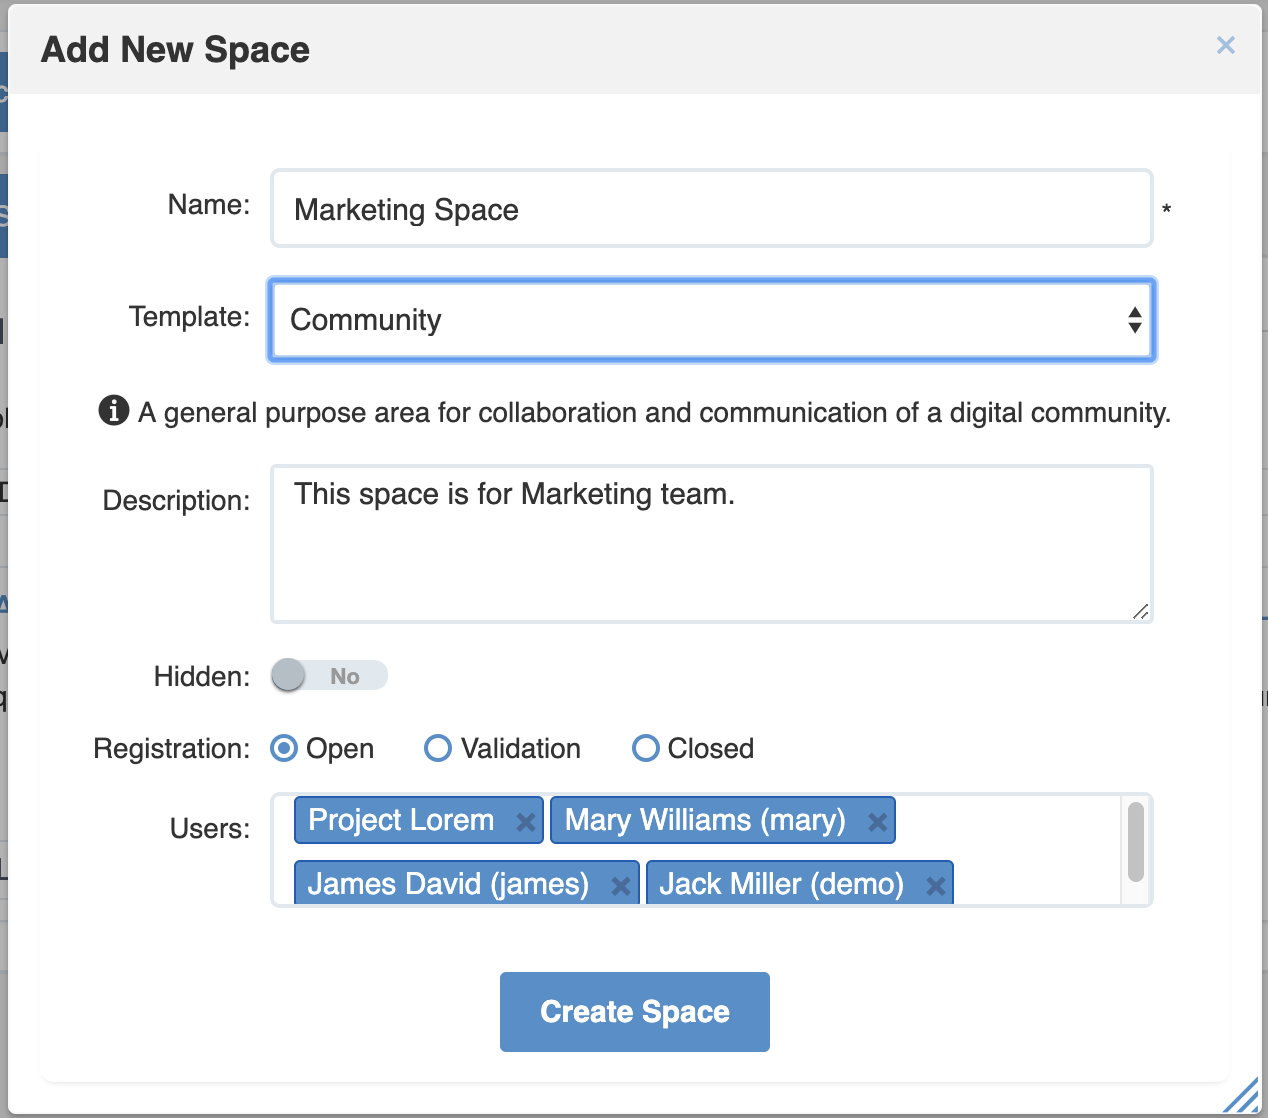
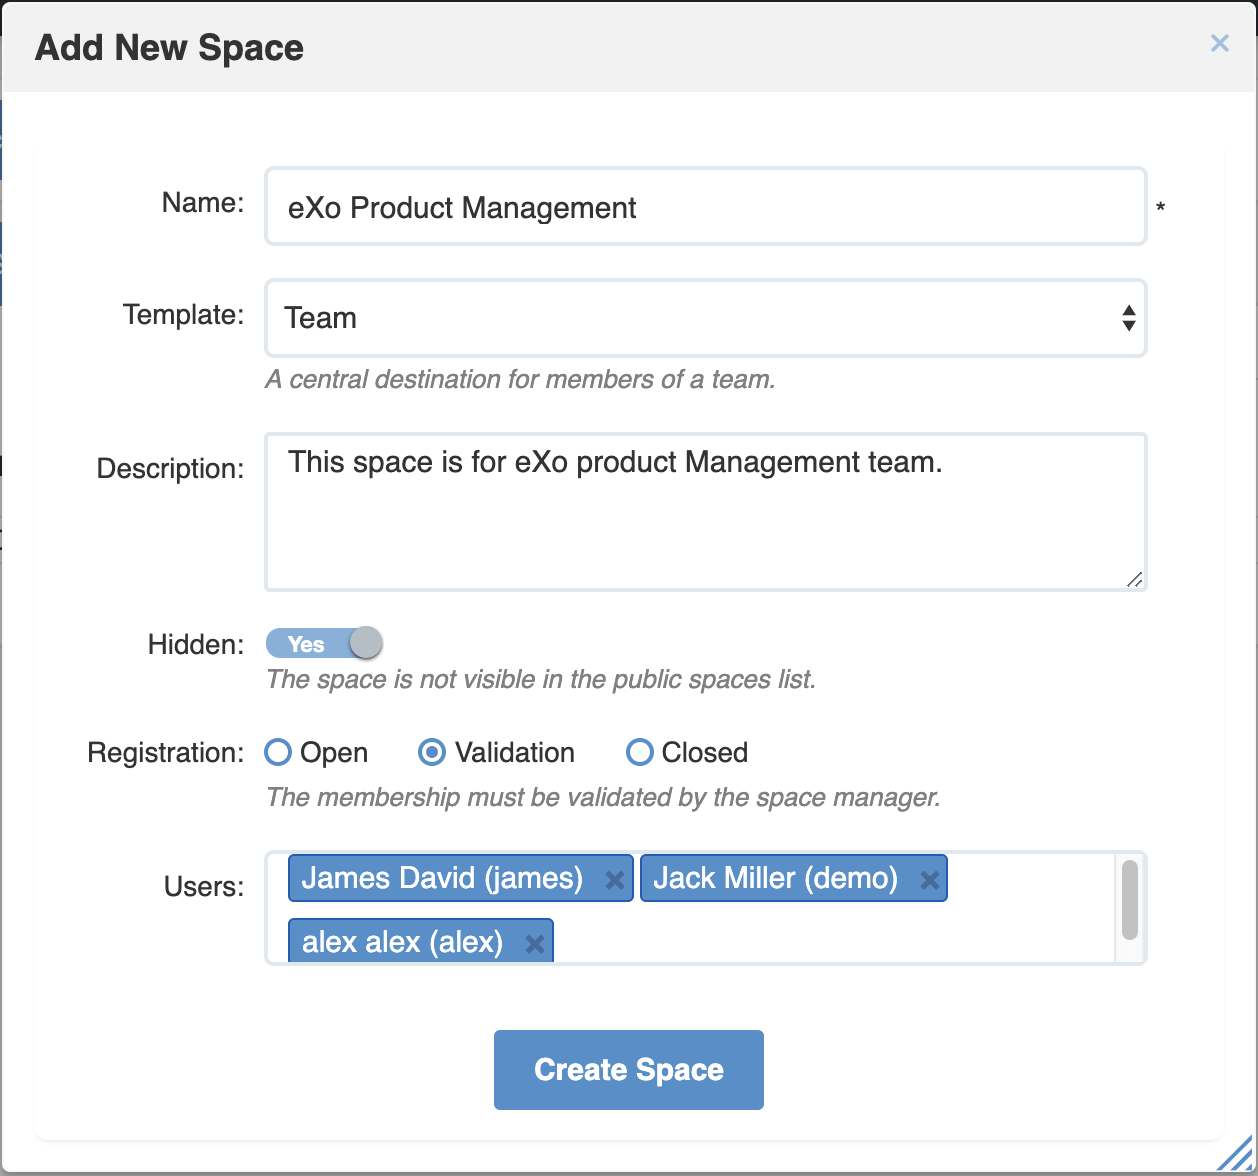
DOC-4288:Update images for space template popup and space template administration

diff --git a/docs/Administration.rst b/docs/Administration.rst
@@ -2493,11 +2493,12 @@ All templates are presented in a table with:
 - Visibility status : default visibility option (visible, secret) for the space
 - Registration : default registration policy for the space (open, closed, validation)
 - Applications : list of applications populated by default in the space
-- Banner link : the image that will be used by default as banner for the space (click to display)
 - Permissions : list of groups/roles that are authorized to create a space from this template
+- Banner View : the image that will be used by default as banner for the space (click to display)
 
 .. note:: The Manage Template screen currently only allows to displaying all templates informations. Customising a space template must be done by editing config files as explained in :ref:`developers guide <PLFDevGuide.SpaceTemplates.Extend>` 
-          To display the banner, you can simply click on **Link** so that the banner will be displayed in a new tab.
+          To display the banner, you can simply click on the eye icon so that the banner will be displayed, and you can click outside the banner or on ESC to close it.
+          |image323|
 
 Manage Spaces
 ~~~~~~~~~~~~~~~~~~
@@ -5108,3 +5109,4 @@ The following image shows the screen when an anonymous user accesses
 .. |image320| image:: images/platform/edit_space.png
 .. |image321| image:: images/platform/type-ahead-suggestions.png
 .. |image322| image:: images/platform/SpaceTemplatesTable.png
+.. |image323| image:: images/platform/Banner-SpaceTemplatesTable.png

diff --git a/docs/Manage-Space.rst b/docs/Manage-Space.rst
@@ -267,6 +267,9 @@ A description of each template is displayed below the selectors.
    -  Close: The user cannot request for joining, but only the space
       manager can invite him.
 
+
+.. note:: Template, Visbility and registration fields have a description of the choice selected to help you taking right decisions when creating a new space.
+
 5. In the **Users** field, the space creator can invite users or space members to the space to create just by picking them with the selector.
 
 Type-ahead suggestions allow to facilitate selection users and groups to invite.
